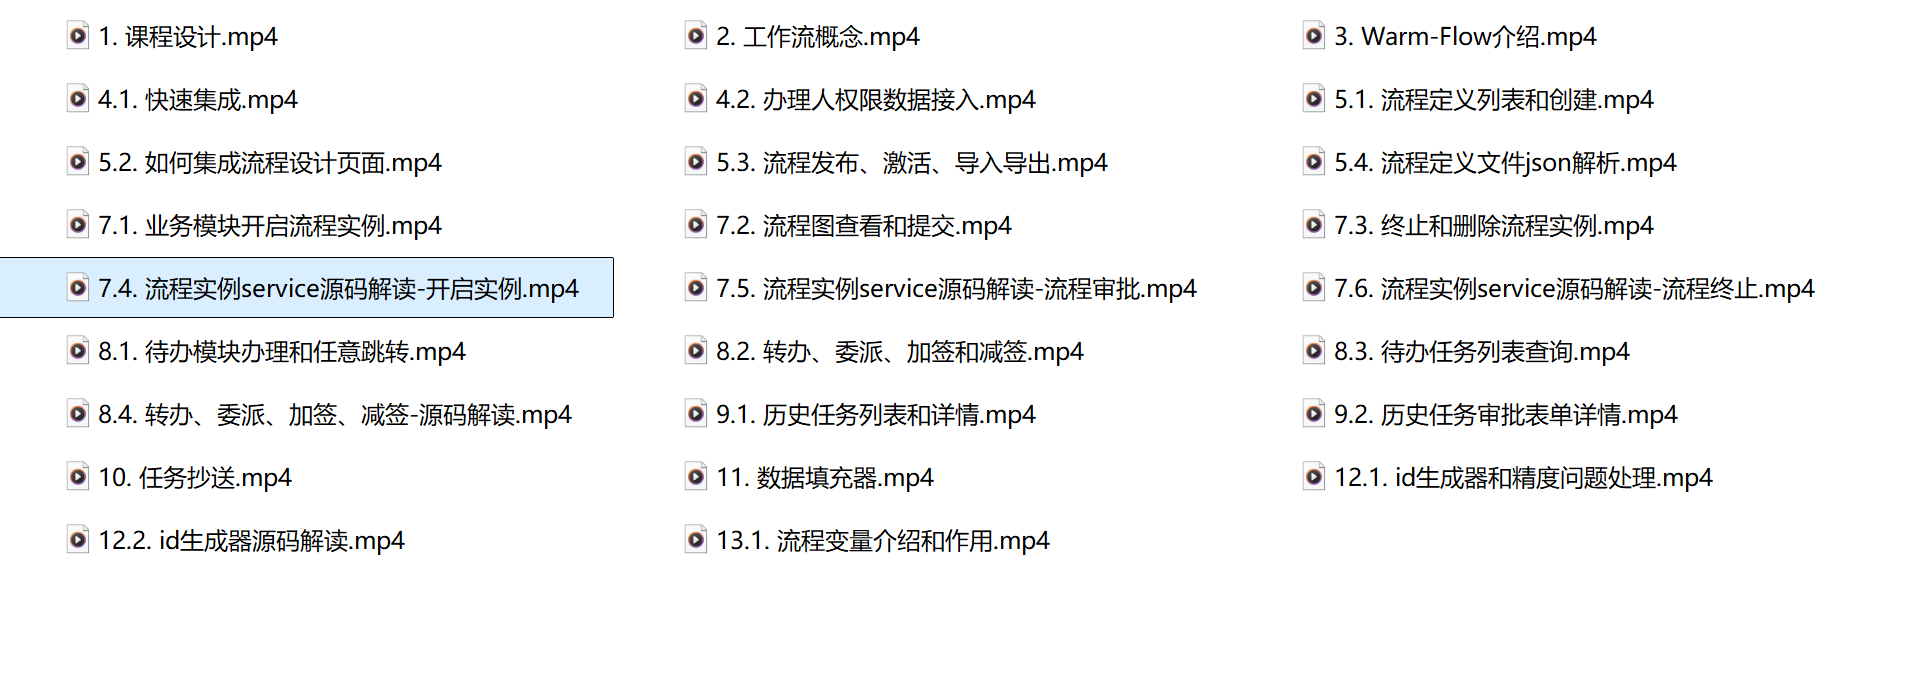
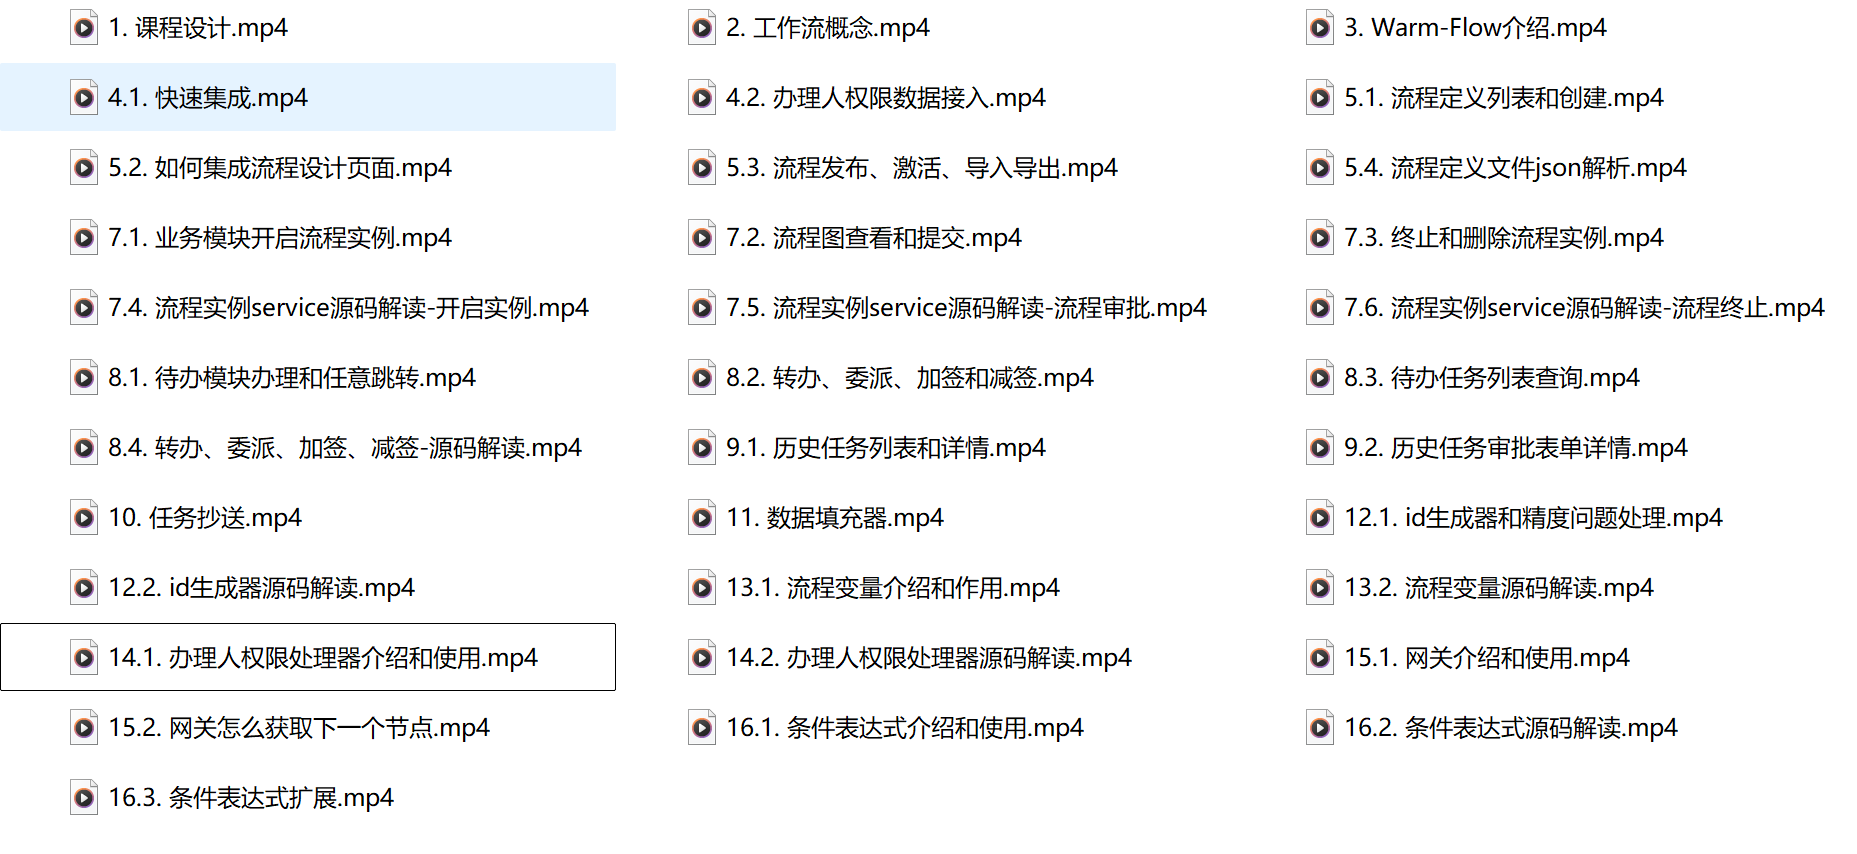
[update] 更新文档

diff --git a/src/master/other/videos.md b/src/master/other/videos.md
@@ -25,7 +25,7 @@ b站视频：[Warm-Flow初体验](https://www.bilibili.com/video/BV1AWRGYEEVr?sp
 
 
 ### **课程目录**
-- 已更新到<span class="red-font-bold">26</span>集，预计会有<span class="red-font-bold">80+</span>集，后续有新增功能，还会多
+- 已更新到<span class="red-font-bold">34</span>集，预计会有<span class="red-font-bold">80+</span>集，后续有新增功能，还会多
 
 <br>
 
